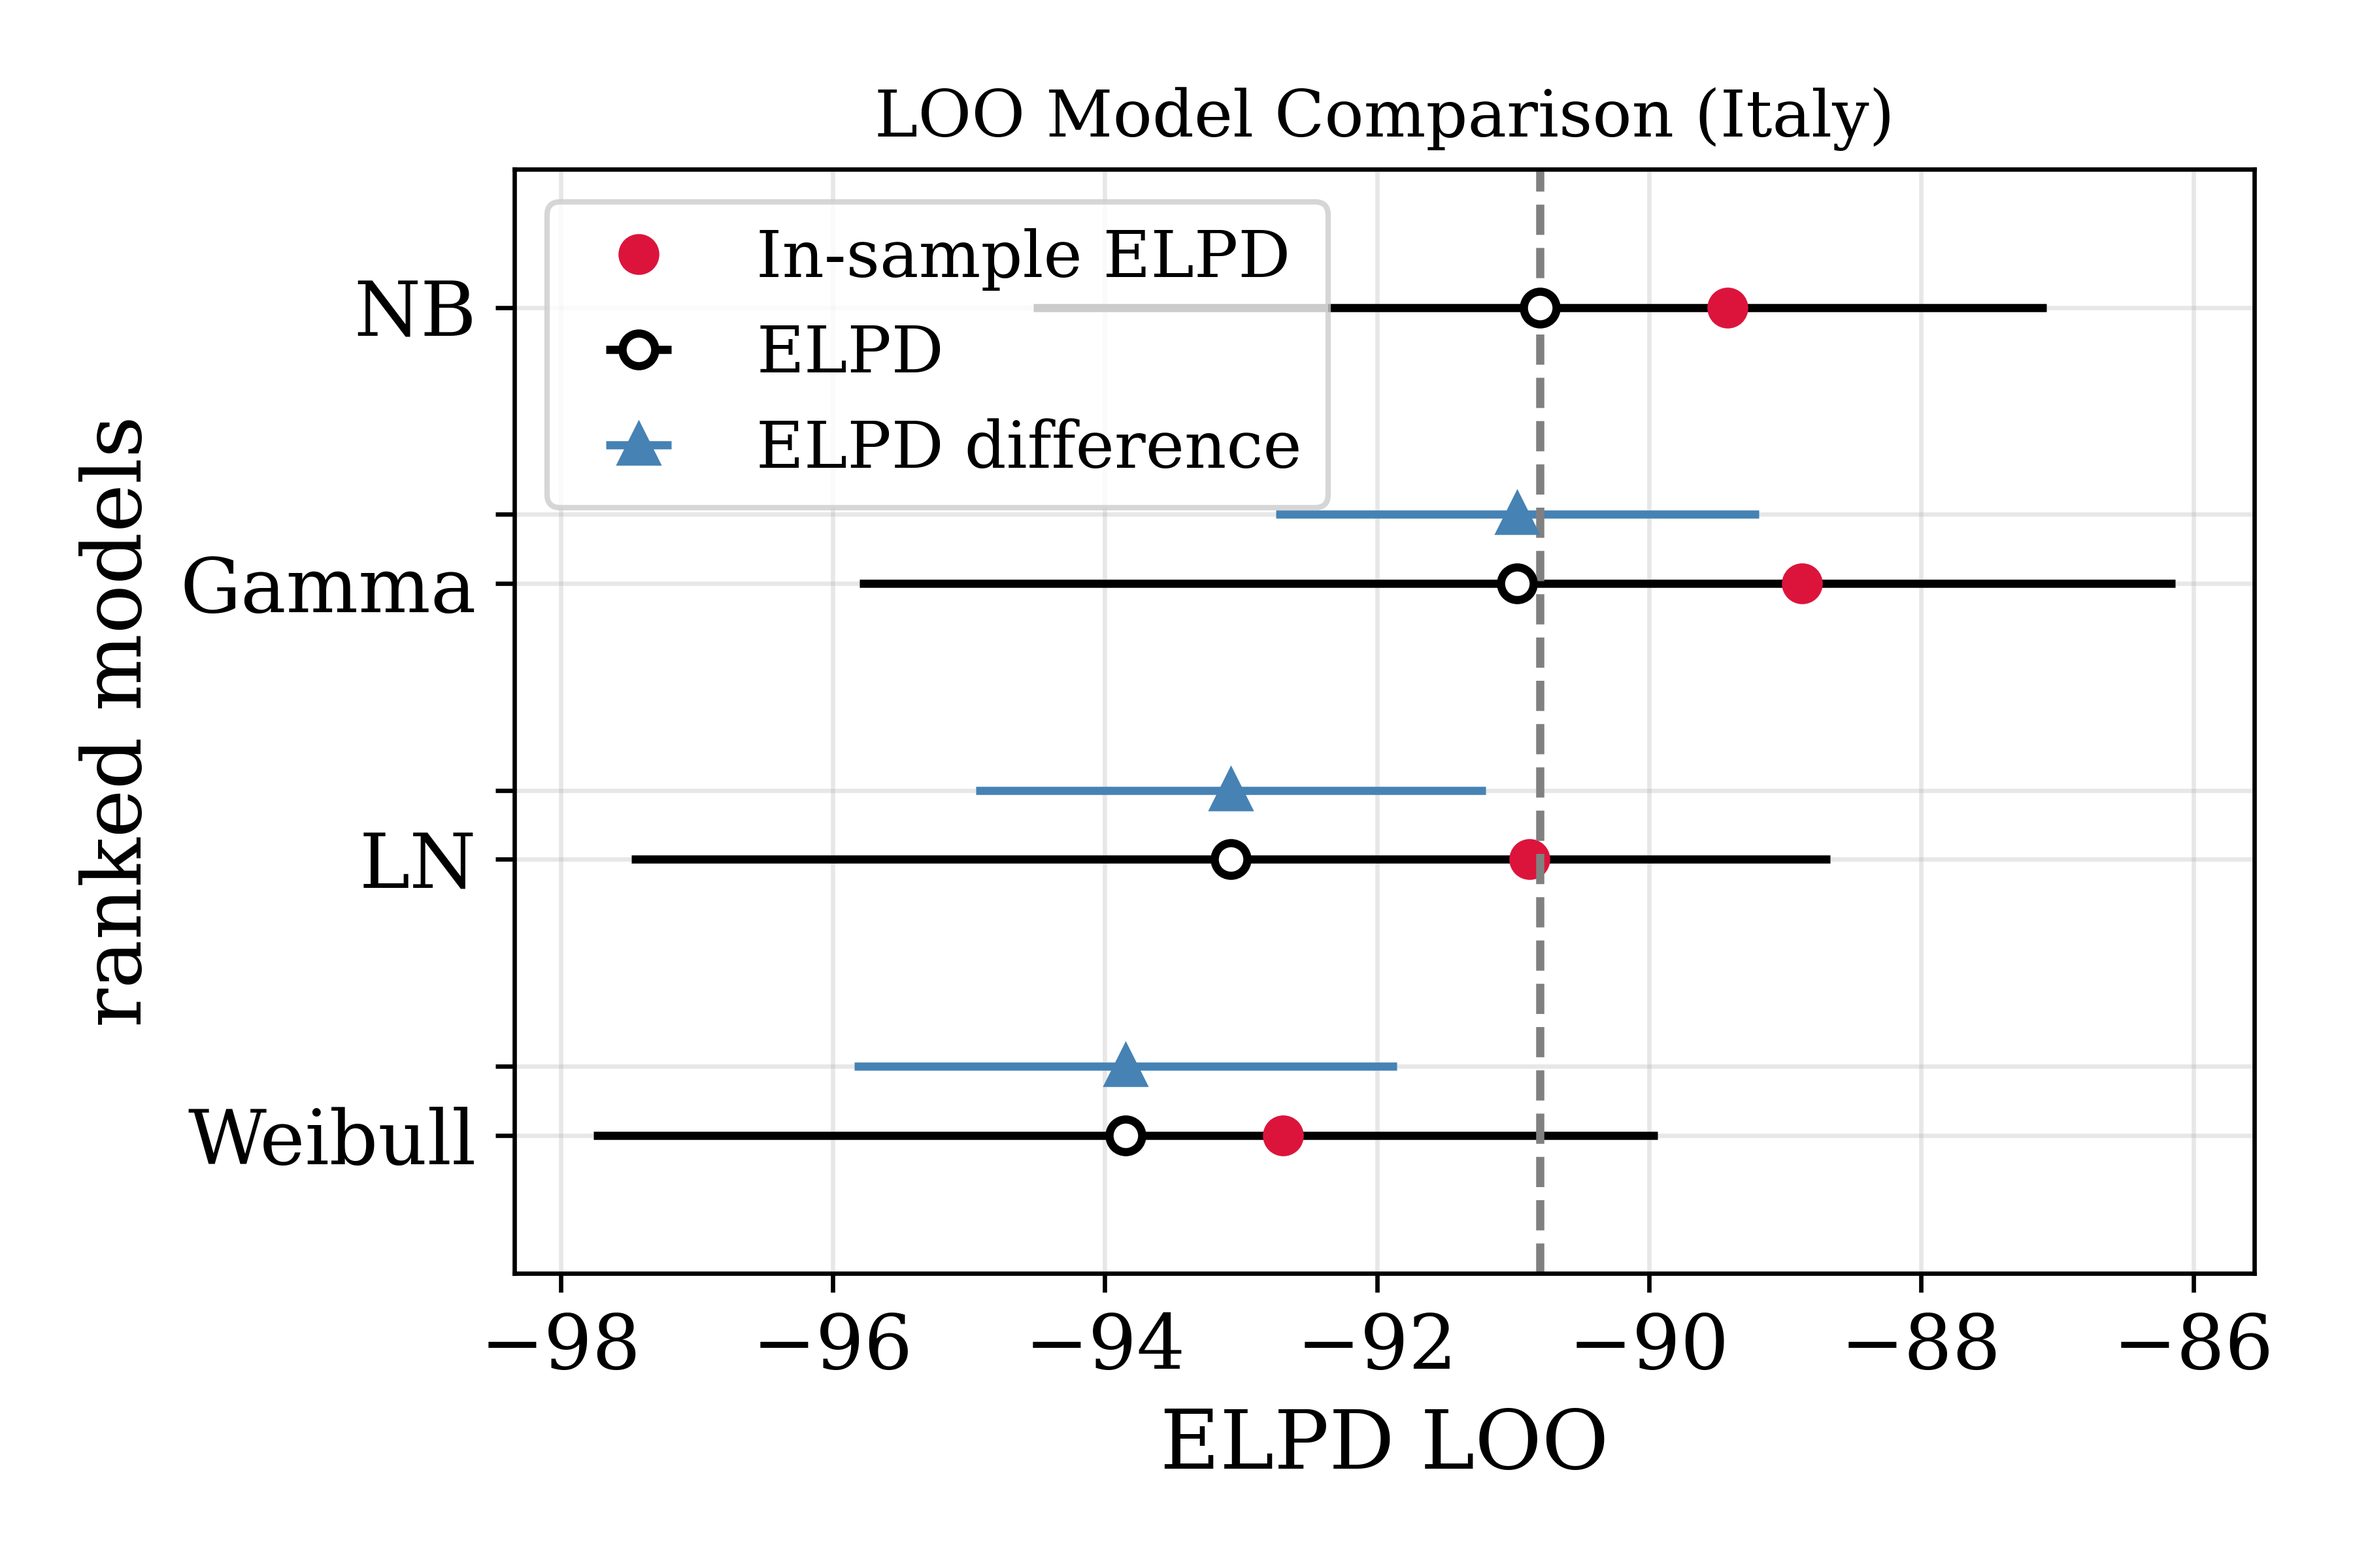
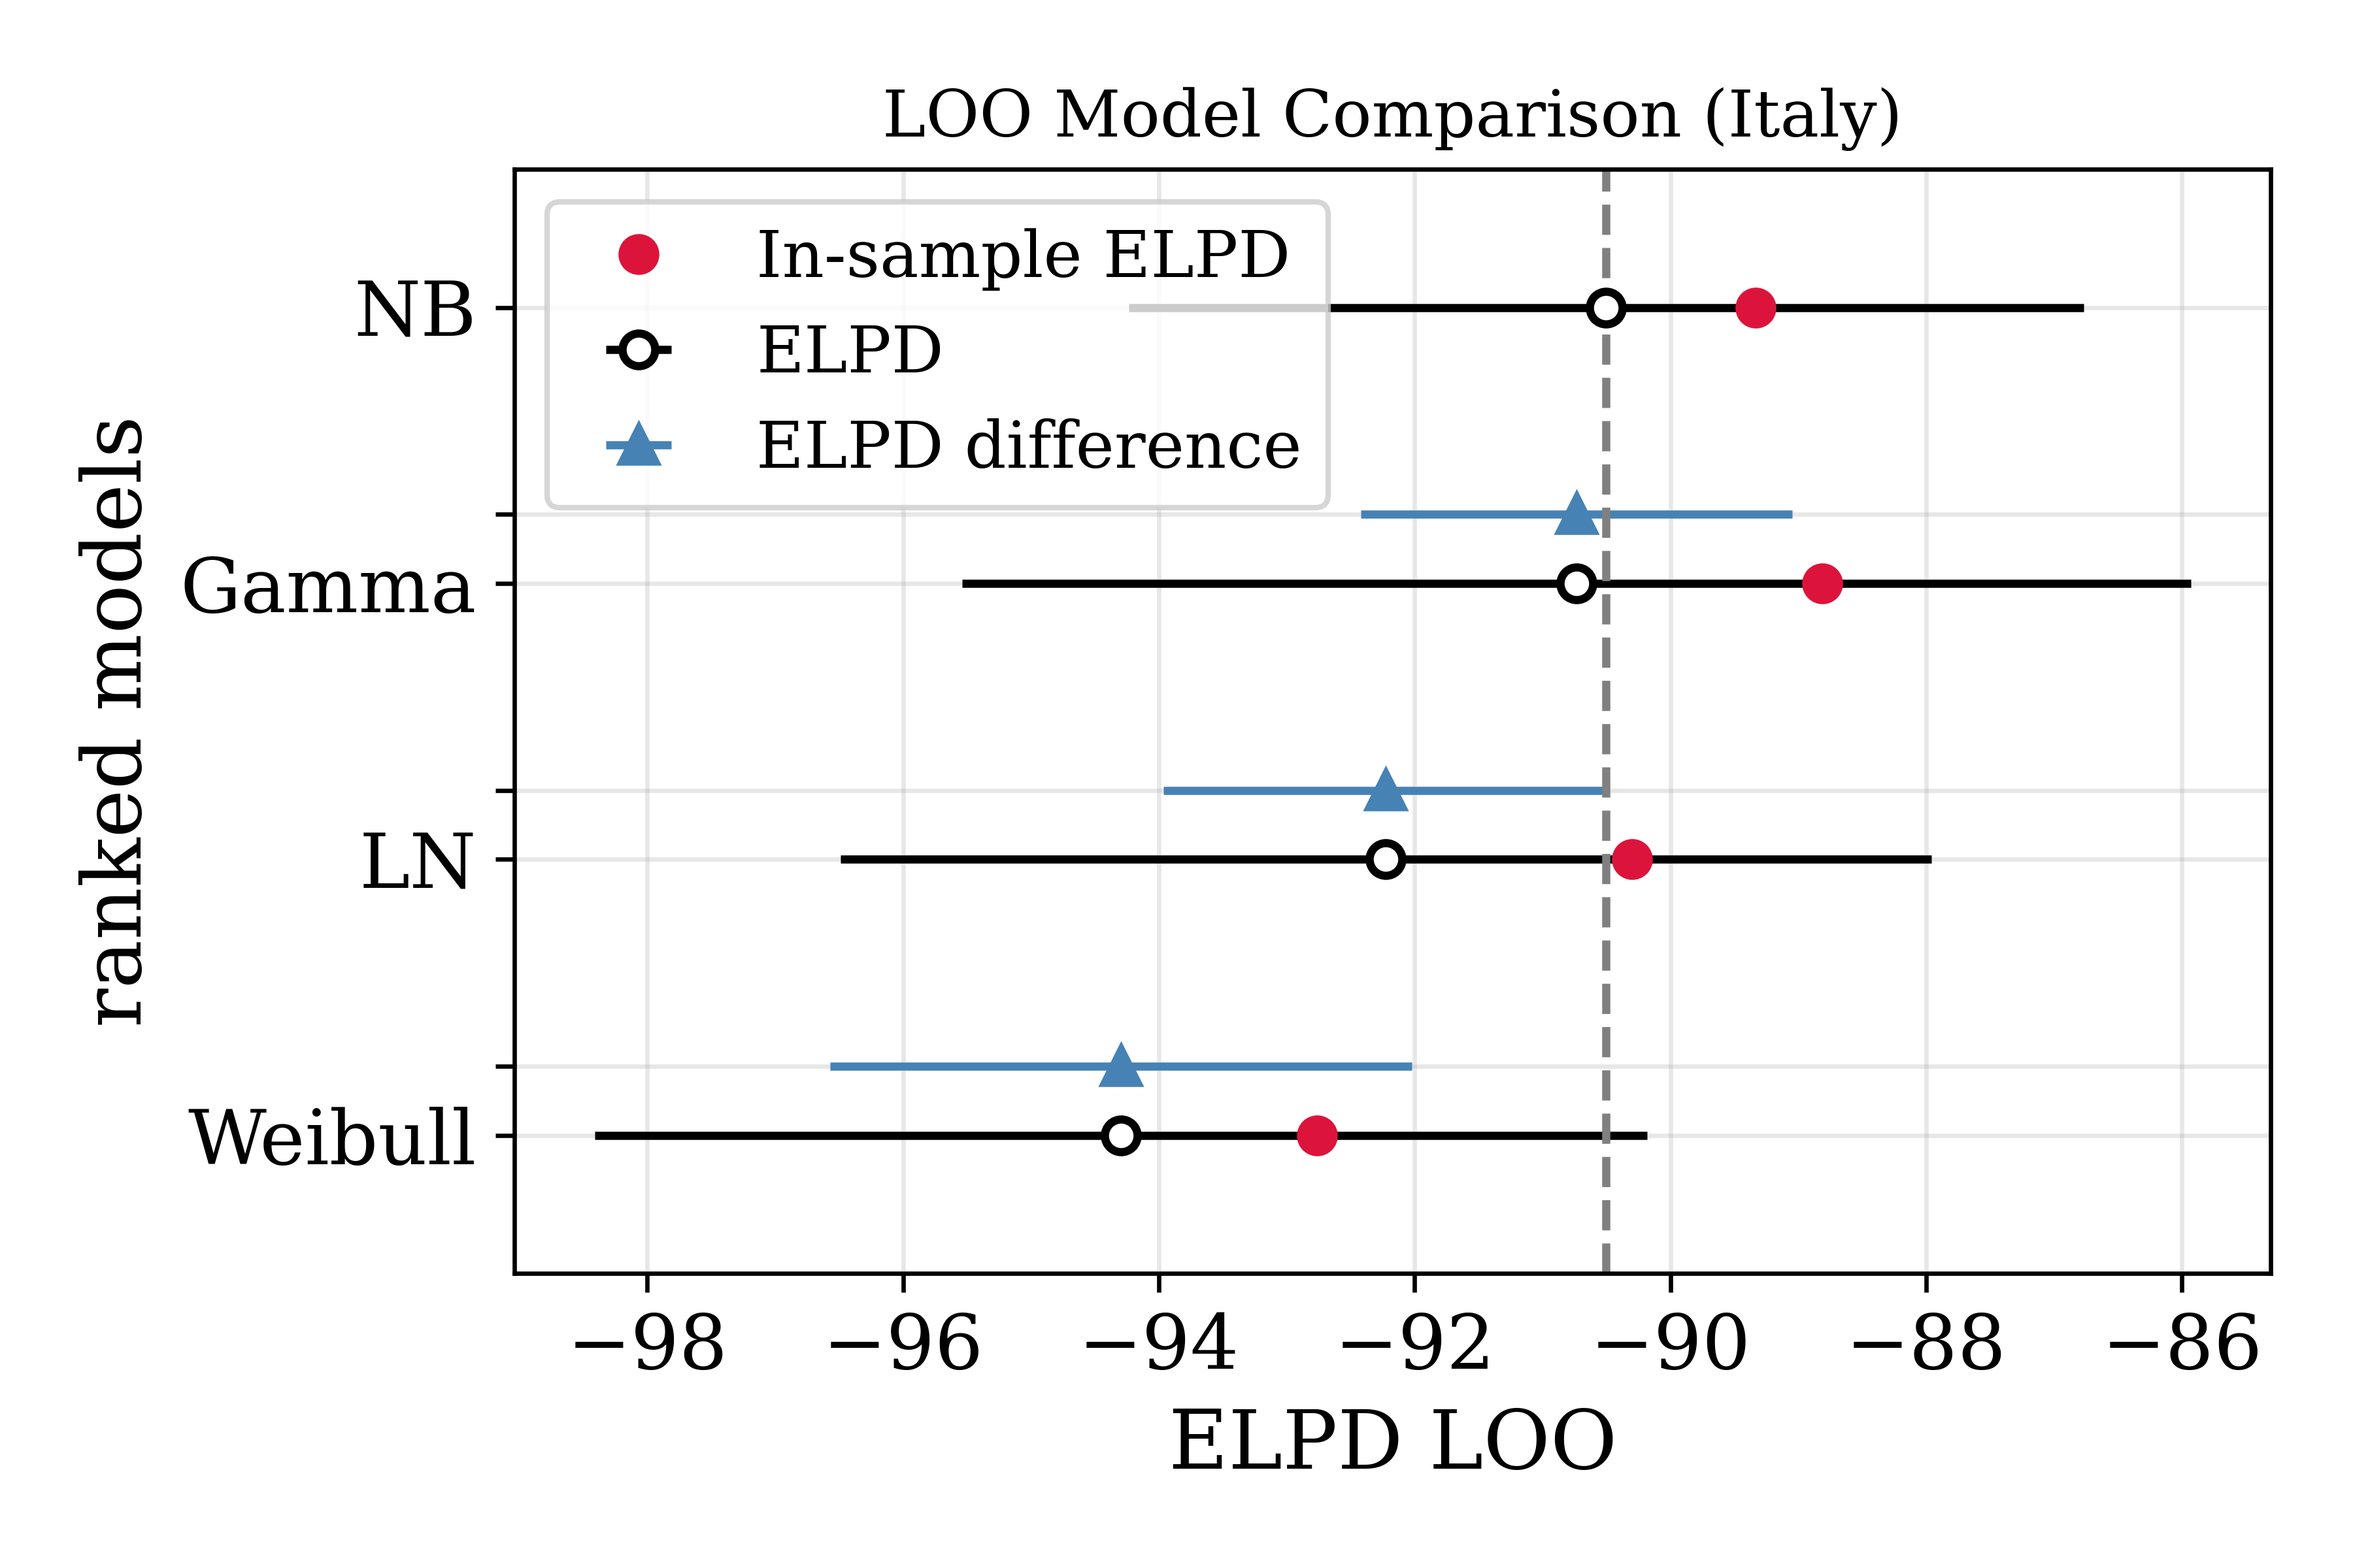
fix beta priors

diff --git a/model_comparison_IT.py b/model_comparison_IT.py
@@ -38,7 +38,8 @@ tSymptomOnset = df['onset'].values.astype("int")
 obs = tSymptomOnset - tStartExposure
 
 with pm.Model() as mod_l:
-    u = pm.Gamma("u", ps_l['mean'][0], ps_l['sd'][0])
+    #u = pm.Gamma("u", ps_l['mean'][0], ps_l['sd'][0])
+    u = pm.Beta("u", 1, 1)
     e = u * (tEndExposure - tStartExposure)
     a = pm.Gamma("a", mu=ps_l['mean'][1], sigma=ps_l['sd'][1])
     b = pm.Gamma("b", mu=ps_l['mean'][2], sigma=ps_l['sd'][2])
@@ -46,7 +47,8 @@ with pm.Model() as mod_l:
     idata_l = pm.sample(1000, idata_kwargs={"log_likelihood": True}, target_accept=0.99, random_seed=27)
 
 with pm.Model() as mod_g:
-    u = pm.Gamma("u", ps_g['mean'][0], ps_g['sd'][0])
+    #u = pm.Gamma("u", ps_g['mean'][0], ps_g['sd'][0])
+    u = pm.Beta("u", 1, 1)
     e = u * (tEndExposure - tStartExposure)
     a = pm.Gamma("a", mu=ps_g['mean'][1], sigma=ps_g['sd'][1])
     b = pm.Gamma("b", mu=ps_g['mean'][2], sigma=ps_g['sd'][2])
@@ -54,7 +56,8 @@ with pm.Model() as mod_g:
     idata_g = pm.sample(1000, idata_kwargs={"log_likelihood": True}, random_seed=27)
 
 with pm.Model() as mod_w:
-    u = pm.Gamma("u", ps_w['mean'][0], ps_w['sd'][0])
+    #u = pm.Gamma("u", ps_w['mean'][0], ps_w['sd'][0])
+    u = pm.Beta("u", 1, 1)
     e = u * (tEndExposure - tStartExposure)
     a = pm.Gamma("a", mu=ps_w['mean'][1], sigma=ps_w['sd'][1])
     b = pm.Gamma("b", mu=ps_w['mean'][2], sigma=ps_w['sd'][2])
@@ -62,7 +65,8 @@ with pm.Model() as mod_w:
     idata_w = pm.sample(1000, idata_kwargs={"log_likelihood": True}, target_accept=0.99, random_seed=27)
     
 with pm.Model() as mod_wa:
-    u = pm.Gamma("u", ps_n['mean'][0], ps_n['sd'][0])
+    #u = pm.Gamma("u", ps_n['mean'][0], ps_n['sd'][0])
+    u = pm.Beta("u", 1, 1)
     e = u * (tEndExposure - tStartExposure)
     a = pm.Gamma("a", mu=ps_n['mean'][1], sigma=ps_n['sd'][1])
     b = pm.Gamma("b", mu=ps_n['mean'][2], sigma=ps_n['sd'][2])
@@ -254,3 +258,40 @@ posteriors = pd.concat([l_summ, g_summ, w_summ, n_summ])
 
 posteriors.to_csv("./summaries/IT_posteriors.csv")
 
+
+### save summary plots
+fig, ax = plt.subplots(2,2, figsize=(12,12))
+az.plot_energy(idata_l, ax=ax[0,0])
+ax[0,0].set_title("LogNormal")
+az.plot_energy(idata_g, ax=ax[0,1])
+ax[0,1].set_title("Gamma")
+az.plot_energy(idata_w, ax=ax[1,0])
+ax[1,0].set_title("Weibull")
+az.plot_energy(idata_n, ax=ax[1,1])
+ax[1,1].set_title("NegativeBinomial")
+plt.suptitle("Italy")
+plt.tight_layout()
+plt.savefig("./summary_plots/IT_energy_plots.png", dpi=300)
+plt.close()
+
+
+fig, ax = plt.subplots(2,2, figsize=(12,12))
+az.plot_trace(idata_l, kind="rank_vlines")
+plt.suptitle("LogNormal (Italy)")
+plt.tight_layout()
+plt.savefig("./summary_plots/IT_lognormal_rankplot.png", dpi=300)
+
+az.plot_trace(idata_g, kind="rank_vlines")
+plt.suptitle("Gamma (Italy)")
+plt.tight_layout()
+plt.savefig("./summary_plots/IT_gamma_rankplot.png", dpi=300)
+
+az.plot_trace(idata_w, kind="rank_vlines")
+plt.suptitle("Weibull (Italy)")
+plt.tight_layout()
+plt.savefig("./summary_plots/IT_weibull_rankplot.png", dpi=300)
+
+az.plot_trace(idata_l, kind="rank_vlines")
+plt.suptitle("NegativeBinomial (Italy)")
+plt.tight_layout()
+plt.savefig("./summary_plots/IT_negativebinom_rankplot.png", dpi=300)

diff --git a/model_comparison_base_IT.py b/model_comparison_base_IT.py
@@ -254,3 +254,40 @@ posteriors = pd.concat([l_summ, g_summ, w_summ, n_summ])
 
 posteriors.to_csv("./summaries/IT_base_posteriors.csv")
 
+
+### save summary plots
+fig, ax = plt.subplots(2,2, figsize=(12,12))
+az.plot_energy(idata_l, ax=ax[0,0])
+ax[0,0].set_title("LogNormal")
+az.plot_energy(idata_g, ax=ax[0,1])
+ax[0,1].set_title("Gamma")
+az.plot_energy(idata_w, ax=ax[1,0])
+ax[1,0].set_title("Weibull")
+az.plot_energy(idata_n, ax=ax[1,1])
+ax[1,1].set_title("NegativeBinomial")
+plt.suptitle("Italy (no prior update)")
+plt.tight_layout()
+plt.savefig("./summary_plots/IT_base_energy_plots.png", dpi=300)
+plt.close()
+
+
+fig, ax = plt.subplots(2,2, figsize=(12,12))
+az.plot_trace(idata_l, kind="rank_vlines")
+plt.suptitle("LogNormal (Italy: no prior update)")
+plt.tight_layout()
+plt.savefig("./summary_plots/IT_base_lognormal_rankplot.png", dpi=300)
+
+az.plot_trace(idata_g, kind="rank_vlines")
+plt.suptitle("Gamma (Italy: no prior update)")
+plt.tight_layout()
+plt.savefig("./summary_plots/IT_base_gamma_rankplot.png", dpi=300)
+
+az.plot_trace(idata_w, kind="rank_vlines")
+plt.suptitle("Weibull (Italy: no prior update)")
+plt.tight_layout()
+plt.savefig("./summary_plots/IT_base_weibull_rankplot.png", dpi=300)
+
+az.plot_trace(idata_l, kind="rank_vlines")
+plt.suptitle("NegativeBinomial (Italy: no prior update)")
+plt.tight_layout()
+plt.savefig("./summary_plots/IT_base_negativebinom_rankplot.png", dpi=300)

diff --git a/model_comparison_NE.py b/model_comparison_NE.py
@@ -249,3 +249,40 @@ posteriors = pd.concat([l_summ, g_summ, w_summ, n_summ])
 
 posteriors.to_csv("./summaries/NE_posteriors.csv")
 
+
+### save summary plots
+fig, ax = plt.subplots(2,2, figsize=(12,12))
+az.plot_energy(idata_l, ax=ax[0,0])
+ax[0,0].set_title("LogNormal")
+az.plot_energy(idata_g, ax=ax[0,1])
+ax[0,1].set_title("Gamma")
+az.plot_energy(idata_w, ax=ax[1,0])
+ax[1,0].set_title("Weibull")
+az.plot_energy(idata_n, ax=ax[1,1])
+ax[1,1].set_title("NegativeBinomial")
+plt.suptitle("Netherlands")
+plt.tight_layout()
+plt.savefig("./summary_plots/NE_energy_plots.png", dpi=300)
+plt.close()
+
+
+fig, ax = plt.subplots(2,2, figsize=(12,12))
+az.plot_trace(idata_l, kind="rank_vlines")
+plt.suptitle("LogNormal (Netherlands)")
+plt.tight_layout()
+plt.savefig("./summary_plots/NE_lognormal_rankplot.png", dpi=300)
+
+az.plot_trace(idata_g, kind="rank_vlines")
+plt.suptitle("Gamma (Netherlands)")
+plt.tight_layout()
+plt.savefig("./summary_plots/NE_gamma_rankplot.png", dpi=300)
+
+az.plot_trace(idata_w, kind="rank_vlines")
+plt.suptitle("Weibull (Netherlands)")
+plt.tight_layout()
+plt.savefig("./summary_plots/NE_weibull_rankplot.png", dpi=300)
+
+az.plot_trace(idata_l, kind="rank_vlines")
+plt.suptitle("NegativeBinomial (Netherlands)")
+plt.tight_layout()
+plt.savefig("./summary_plots/NE_negativebinom_rankplot.png", dpi=300)

diff --git a/README.md b/README.md
@@ -48,7 +48,7 @@
 	<img src="plots/IT_base_model_comp_loo.png" width="800" height="500" />
 </p>
 
-<p> After this, we used the posterior mean and standard deviation from each Gamma prior for parameters <i>a</i> and <i>b</i> from each model and used it to parameterise the respective model's Gamma priors for the Italy models (i.e. Beta priors were replaced by Gamma priors as well). Results showed slightly improved accuracy and precision. As expected from small data models, updating priors changes the predictive capacity of models, though it is relevant to emphasise that models show high ELPD overlap. Note that in this case, the PSIS-LOO comparison indicates that Gamma and NegativeBinomial models have very similar weights of 48% and 52% respectively (see summaries).  </p>
+<p> After this, we used the posterior mean and standard deviation from each Gamma prior for parameters <i>a</i> and <i>b</i> from each model and used it to parameterise the respective model's Gamma priors for the Italy models (i.e. Beta priors were not replaced). Results showed slightly improved accuracy and precision. As expected from small data models, updating priors changes the predictive capacity of models, though it is relevant to emphasise that models show high ELPD overlap. Note that in this case, the PSIS-LOO comparison indicates that Gamma and NegativeBinomial models have very similar weights of 48% and 52% respectively (see summaries).  </p>
 
 <p align="center">
 	<img src="plots/IT_table3.png" width="800" height="200" />
